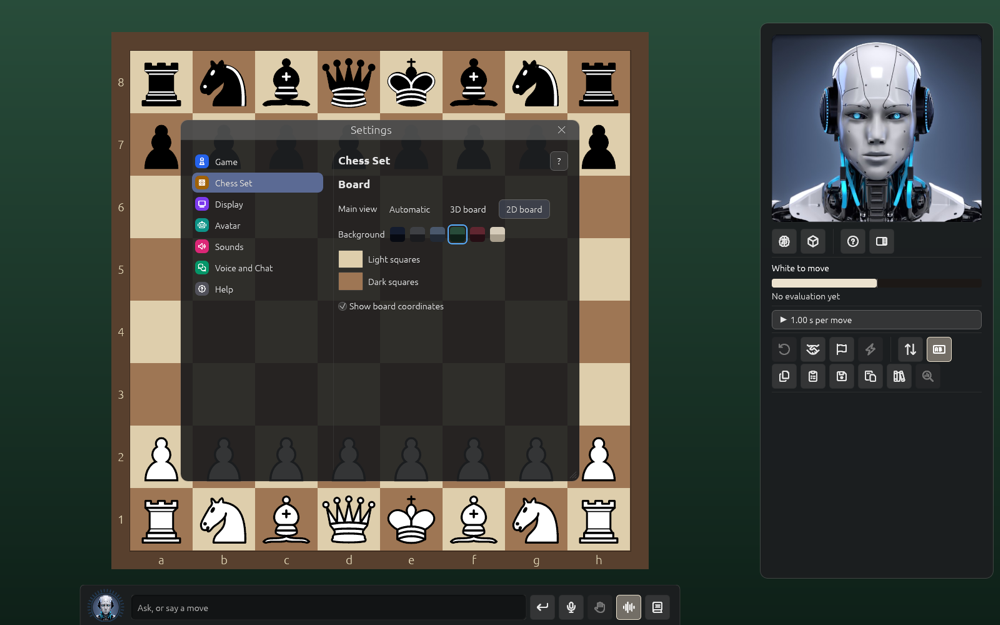
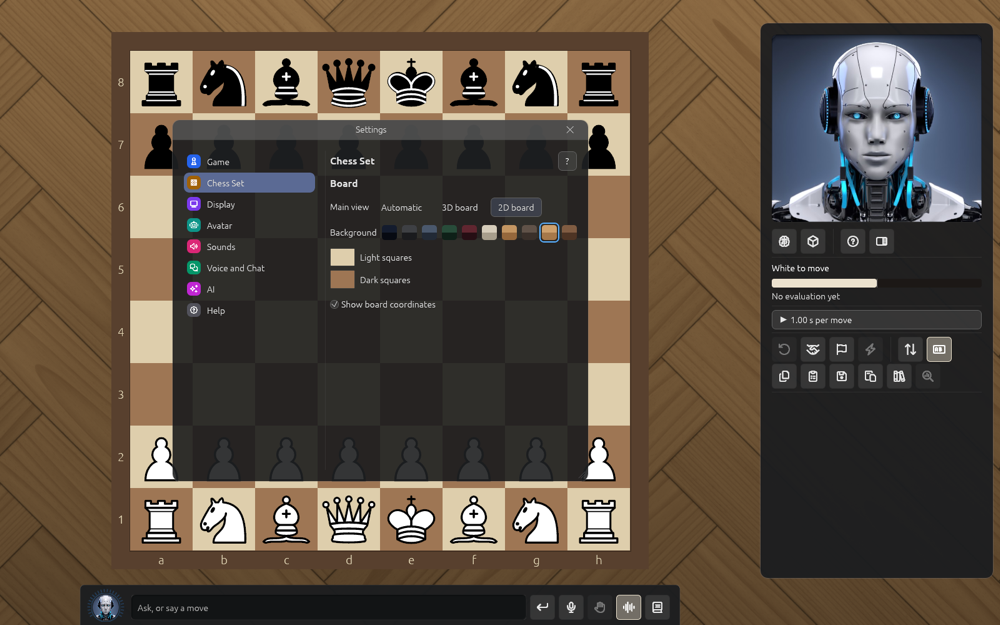
Settings: Table and Floor, and wood floors behind the 2D board

diff --git a/book/src/preferences.md b/book/src/preferences.md
@@ -86,8 +86,21 @@ Two columns: **Board**, and **Chess clock** (3D board only).
   bevel on an ebony frame banded in golden rosewood), **Raised field** (the squares standing
   above a matt walnut frame) and **End grain** (a thick block with no frame, so it has no
   coordinates). The chess clock and the captured pieces move to suit each board's size.
+- **Table** (3D board): what the board stands on. **None** (to start) leaves it on its
+  backdrop; or one of four tables, each with its own edge and wood: **Farmhouse oak** (a thick
+  white-oak top glued from wide boards, square edged), **Mid-century walnut** (one walnut
+  panel, its edge undercut so it looks thin, on splayed legs), **Library mahogany** (a moulded
+  ogee edge) and **Café ash** (pale ash with a rounded bullnose edge and big rounded corners).
+  The table sits under whichever board you choose.
+- **Floor** (3D board): the wood floor under the table, seen past its edge: **None** (to
+  start), **Oak planks**, **Smoked oak**, **Herringbone** or **Walnut planks**. It fades into
+  the room's wall or the sky farther away, so it never shows an end.
+
+![The board on the Farmhouse oak table, smoked oak floor beyond](images/table-farmhouse.png)
+
 - **Background** (2D board): **Midnight**, **Graphite**, **Slate**, **Forest**, **Wine** or
-  **Sand**, each a swatch.
+  **Sand**, each a swatch, or one of the same four wood floors as the 3D board's, which puts
+  the flat board on the floor, the floor a little darker so the board stands out.
 - **Light squares** and **Dark squares** (2D board): each from a colour picker with its own
   **Reset**. **Reset board colours** appears once you change either, and puts both back. The
   dark squares' colour is also the colour of the border round the board.
